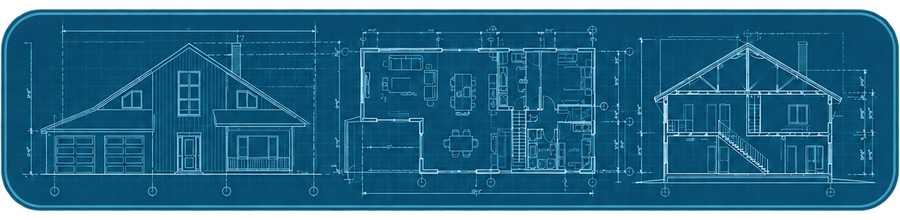
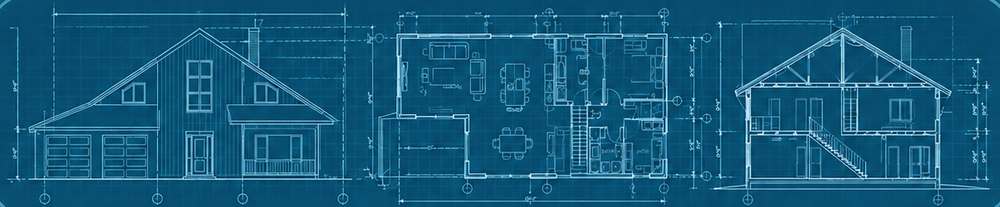
Clean capability pill crops and strengthen labels

diff --git a/src/components/Header.tsx b/src/components/Header.tsx
@@ -43,7 +43,7 @@ function CapabilityPillarHeader({ label }: { label: string }) {
 
   return (
     <div
-      className={`relative isolate overflow-hidden rounded-[12px] border px-4 py-3 text-base font-bold uppercase tracking-[0.24em] shadow-[inset_0_1px_0_rgba(255,255,255,0.08)] ${
+      className={`relative isolate flex min-h-12 items-center justify-center overflow-hidden rounded-[12px] border px-4 py-2.5 text-lg font-black uppercase tracking-[0.3em] shadow-[inset_0_1px_0_rgba(255,255,255,0.08)] ${
         pillar === "Build"
           ? "border-cyan-100/16 bg-[#285869]"
           : pillar === "Grow"
@@ -56,10 +56,10 @@ function CapabilityPillarHeader({ label }: { label: string }) {
         alt=""
         fill
         sizes="360px"
-        className="object-cover opacity-95"
+        className="rounded-[inherit] object-cover opacity-95"
         aria-hidden="true"
       />
-      <span className="relative z-10 text-[color:var(--color-accent)] [text-shadow:0_1px_8px_rgba(3,8,16,0.95)]">{label}</span>
+      <span className="relative z-10 text-[color:var(--color-accent)] [text-shadow:0_1px_10px_rgba(3,8,16,1),0_0_18px_rgba(3,8,16,0.9)]">{label}</span>
     </div>
   );
 }
